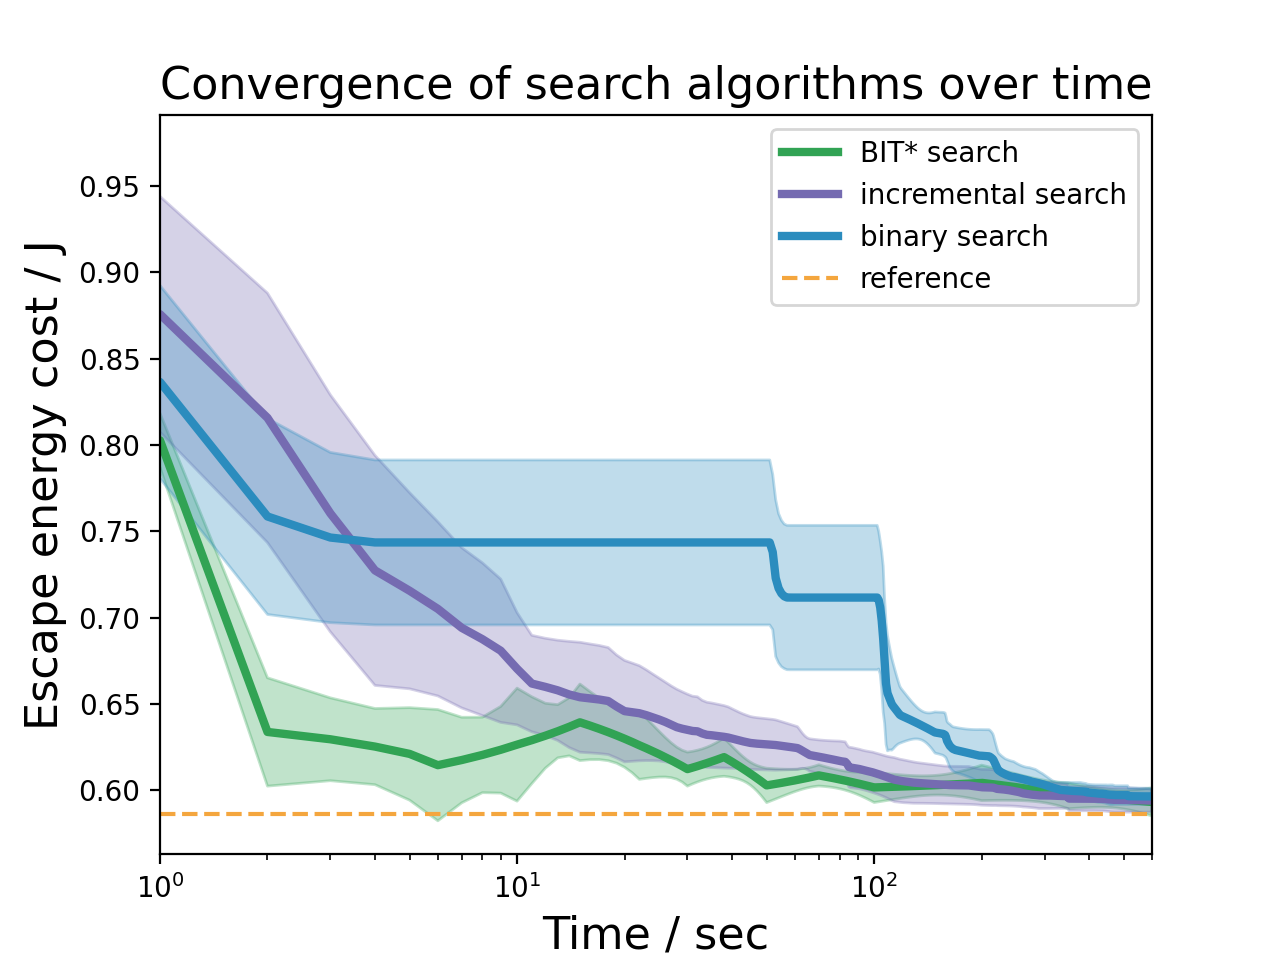
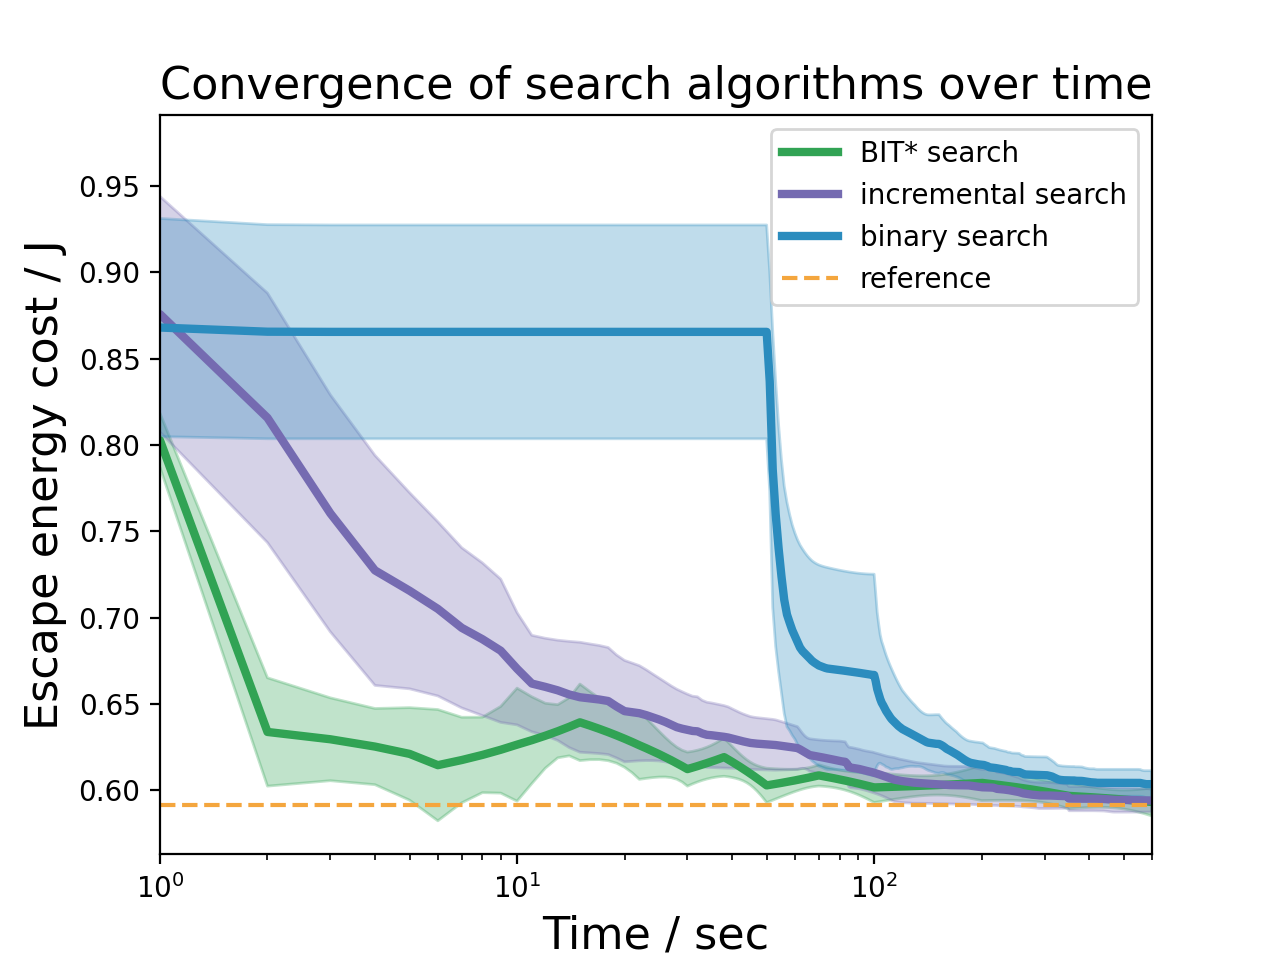
test05 replotted with new binary algo (msi)

diff --git a/src/visualization.py b/src/visualization.py
@@ -454,8 +454,8 @@ def plot_convergence_test(bits, bin, inc, folderName, groundTruthEscapeEnergy, m
     # Color codes
     cls = get_colors()
     noIter = 10
+    noIterBin = 30
     timeTickListBits, escapeEnergyListBits = bits
-    print('timeTickListBits', timeTickListBits)
     timeTickListInc, escapeEnergyListInc = inc
     timeTickListBin, escapeEnergyListBin = bin
 
@@ -463,7 +463,7 @@ def plot_convergence_test(bits, bin, inc, folderName, groundTruthEscapeEnergy, m
     timeTick = np.asarray(list(range(maxTime)))
     escapeEnergyBits = np.zeros((noIter, maxTime))
     escapeEnergyInc = np.zeros((noIter, maxTime))
-    escapeEnergyBin = np.zeros((noIter, maxTime))
+    escapeEnergyBin = np.zeros((noIterBin, maxTime))
 
     # Interpolation
     for i in range(noIter):
@@ -475,6 +475,7 @@ def plot_convergence_test(bits, bin, inc, folderName, groundTruthEscapeEnergy, m
         tnew = np.arange(0, maxTime, 1)
         escapeEnergyInc[i,:] = np.asarray(f(tnew))
 
+    for i in range(noIterBin):
         f = interpolate.interp1d(timeTickListBin[i], escapeEnergyListBin[i])
         tnew = np.arange(0, maxTime, 1)
         escapeEnergyBin[i,:] = np.asarray(f(tnew))
@@ -781,22 +782,22 @@ def calculate_test04():
 if __name__ == '__main__':
     # Insert initial escape energy cost
     initZ = 1.7285293405317828
-    groundTruthZ = 2.33
+    groundTruthZ = 2.32
     cInit = 2.7 - initZ
 
     # Read from csv
     folderName = 'results/ICRA2024/Test05HookRingErrorVsRuntime'
     folderNameIncre = 'results/ICRA2024/Test05HookRingErrorVsRuntime/17-06-2023-08-29-07_incremental_600_75'
-    folderNameBinary = 'results/ICRA2024/Test05HookRingErrorVsRuntime/18-06-2023-13-49-47_binary_600_50'
+    folderNameBinary = 'results/ICRA2024/Test05HookRingErrorVsRuntime/20-06-2023-14-47-44_binary_new_600_50'
     folderNameBITs = 'results/ICRA2024/Test05HookRingErrorVsRuntime/bit*_2sec_to_600sec'
     inc = get_benckmark_results_from_csv(folderNameIncre, cInit, getOnlyOneFrame=1, noIter=10)
-    bin = get_benckmark_results_from_csv(folderNameBinary, cInit, getOnlyOneFrame=1, noIter=10)
+    bin = get_benckmark_results_from_csv(folderNameBinary, cInit, getOnlyOneFrame=1, noIter=30)
     bits = get_benckmark_results_from_csv(folderNameBITs, cInit, getOnlyOneFrame=1, noIter=10)
 
     # Plot search algorithms convergence in 1 keyframe (frame 144 / keyframe 18 in Hook traps ring case)
     groundTruthEscapeEnergy = groundTruthZ - initZ
     # test05_get_structured_bits_data()
-    # plot_convergence_test(bits, bin, inc, folderName, groundTruthEscapeEnergy)
+    plot_convergence_test(bits, bin, inc, folderName, groundTruthEscapeEnergy)
 
     # Plot comparison of two algos over several keyframes (starting from frame 144 / keyframe 18)
     startKeyFrame = 0
@@ -807,7 +808,7 @@ if __name__ == '__main__':
     _, CostInFrames = get_benckmark_results_from_csv(folderNameIn, cInit, getOnlyOneFrame=0)
     # print('@@@@finalCostBSFrames', finalCostBSFrames)
     folderName = 'results/ICRA2024/Test01HookRing3BasicSearch'
-    plot_acurracy_test(CostBiFrames, CostInFrames, folderName, groundTruthZ, startKeyFrame,)
+    # plot_acurracy_test(CostBiFrames, CostInFrames, folderName, groundTruthZ, startKeyFrame,)
 
     # Plot test02
     folderName02 = './results/ICRA2024/Test02HookRingPlannersComp/'
